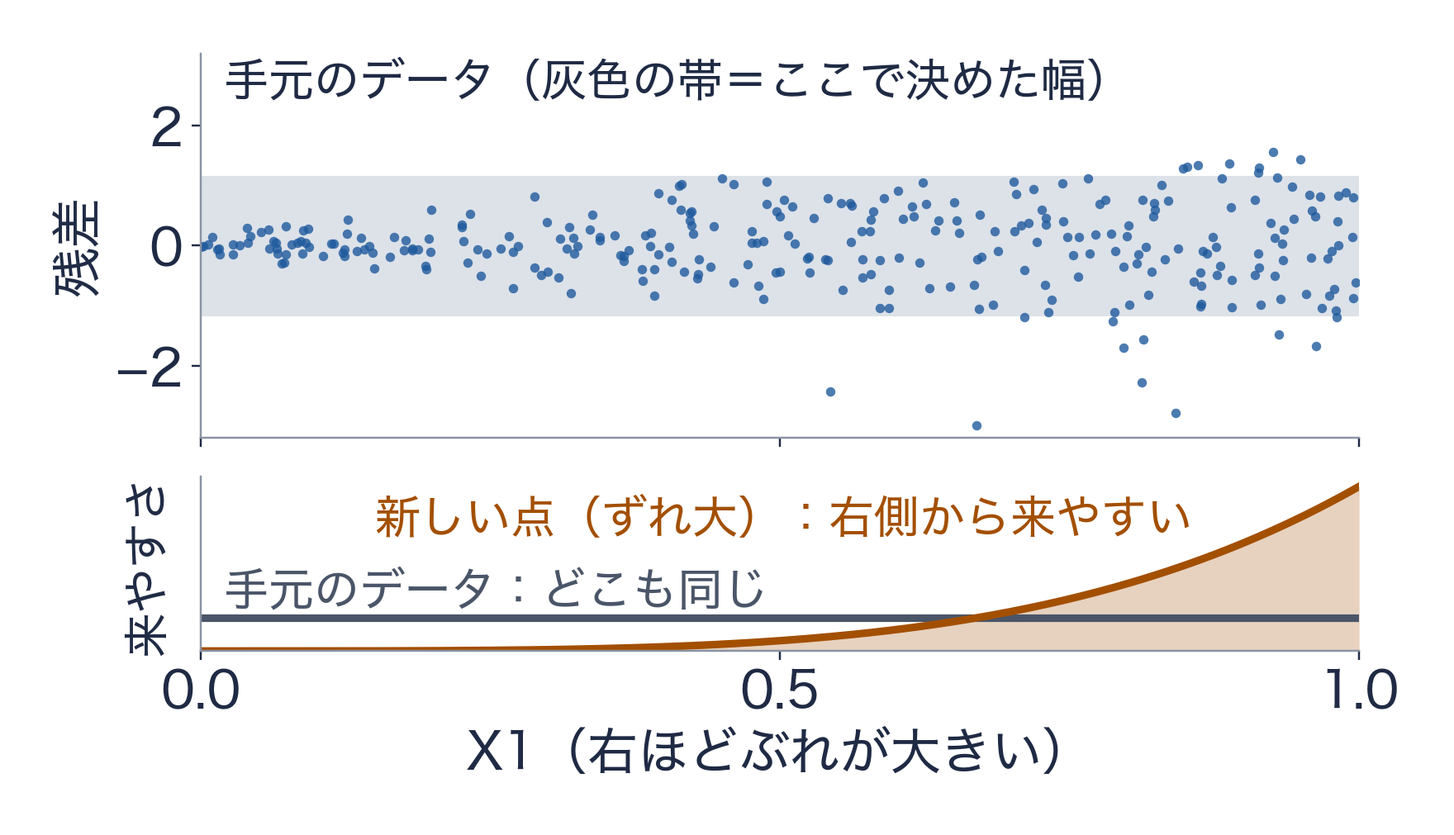
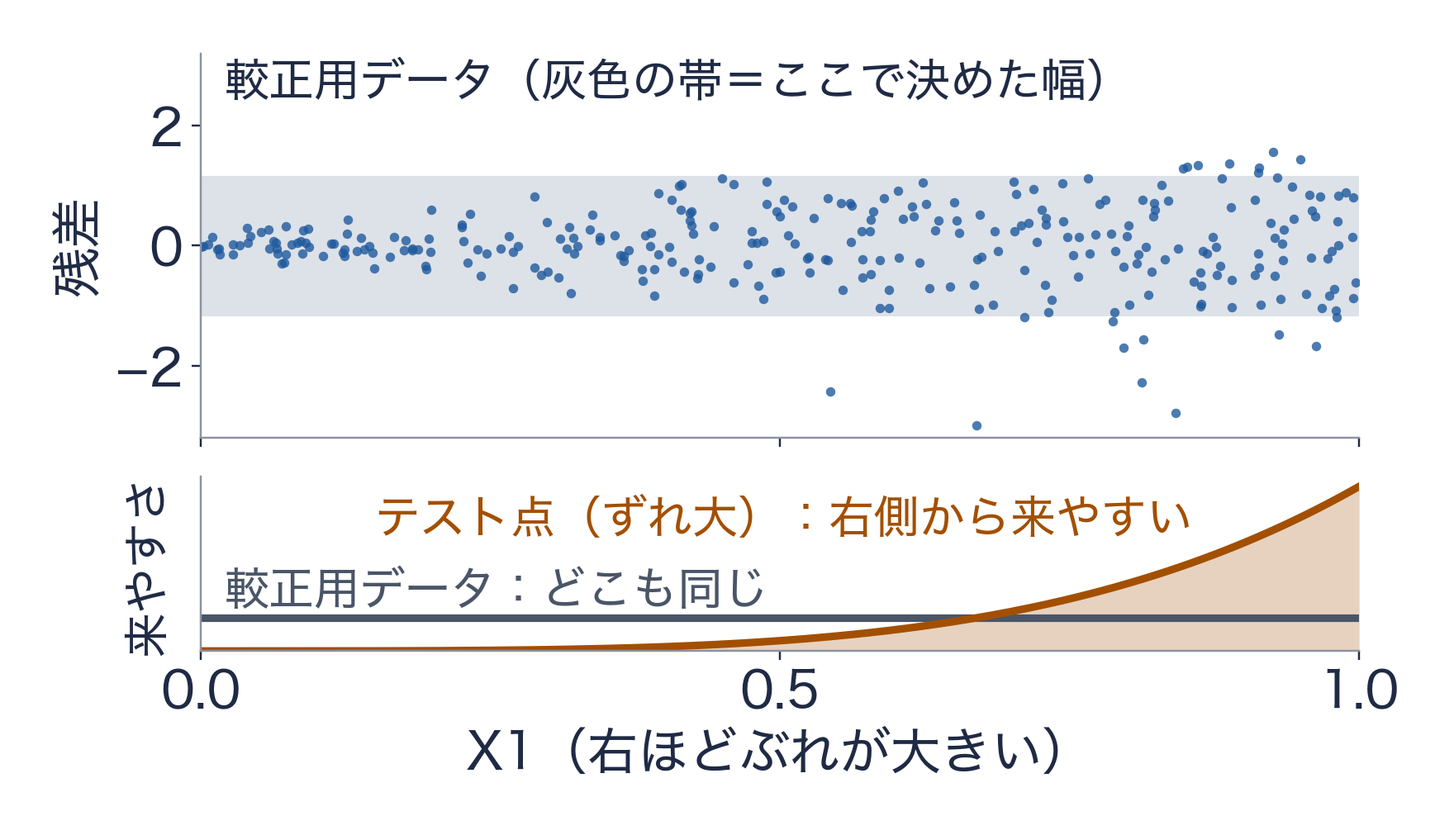
E1〜E6 の進捗スライドのデータの呼び方を、学習用データ・較正用データ・テスト点・テスト集合に統一する（Codex の提案）

diff --git a/slides/進捗_人工データ_E1-E6/project/slides/exp4-setup.html b/slides/進捗_人工データ_E1-E6/project/slides/exp4-setup.html
@@ -1,13 +1,13 @@
 <section id="exp4-setup" data-transition="fade" style="background:#F7F6F2;color:#1F2A44;font-family:'BIZ UDPGothic', Arial, sans-serif;padding:128px 128px 160px;display:flex;flex-direction:column;gap:20px">
-<h2 style="font-family:'BIZ UDPGothic', Arial, sans-serif;font-size:64px;font-weight:700;line-height:1.15;color:#1F2A44">実験 4：新しい点が来やすい場所が、手元と違う場合</h2>
+<h2 style="font-family:'BIZ UDPGothic', Arial, sans-serif;font-size:64px;font-weight:700;line-height:1.15;color:#1F2A44">実験 4：テスト点の来やすい場所が、較正用と違う</h2>
 <div style="display:flex;gap:32px;align-items:center">
-<img src="/_blob/d2bf83d58359678eaaf60b834c6fa774" alt="上の図は手元のデータの残差の散布図で、灰色の帯が手元で決めた幅。右ほどぶれが大きく、帯の外の点は右側に多い。下の図は X1 の来やすさで、手元のデータはどこも同じ高さ、新しい点（ずれ大）は右側ほど来やすい。" style="width:1080px;height:620px;object-fit:contain">
+<img src="/_blob/2da800b6d5106181dbbb3d05c10e657e" alt="上の図は較正用データの残差の散布図で、灰色の帯が較正用データで決めた幅。右ほどぶれが大きく、帯の外の点は右側に多い。下の図は X1 の来やすさで、較正用データはどこも同じ高さ、テスト点（ずれ大）は右側ほど来やすい。" style="width:1080px;height:620px;object-fit:contain">
 <div style="flex:1;display:flex;flex-direction:column;gap:24px">
-<p style="font-size:36px;line-height:1.4;color:#1F2A44">例：去年のデータで幅を決めたが、今年はぶれの大きい種類が増えた</p>
-<p style="font-size:36px;line-height:1.4;color:#1F2A44">帯の外は右側に多い → 新しい点が右から来やすいと<b>外れが増える</b></p>
+<p style="font-size:36px;line-height:1.4;color:#1F2A44">例：去年の較正用データで幅を決めたが、今年はぶれの大きい種類が増えた</p>
+<p style="font-size:36px;line-height:1.4;color:#1F2A44">帯の外は右側に多い → テスト点が右から来やすいと<b>外れが増える</b></p>
 <p style="font-size:36px;line-height:1.4;color:#A34F00">X から Y が決まるルールは同じ。それでも交換可能性が崩れる</p>
 </div>
 </div>
 <p style="position:absolute;left:128px;bottom:64px;width:1664px;font-size:28px;color:#4A5568">人工データでの検証　17 / 26　　データ②。上の点は説明用の 300 個。来やすさの偏りは 4 段階に変えた（次のページ）</p>
-<aside>実験 4 です。保証の条件である交換可能性が崩れたら、どうなるかを調べました。例えば、去年のデータで幅を決めたのに、今年はぶれの大きい種類のデータが増えた、という状況です。上の図は手元のデータで、縦軸は残差、つまり予測からのずれです。灰色の帯が、手元のデータで決めた幅です。X1 が大きい右側ほどぶれが大きく、帯の外に出る点も右側に多くなっています。下の図は、新しい点がどの X1 の所から来やすいかを表しています。手元のデータは、どこからも同じように来ます。一方、今回ずらした新しい点は、右側、つまりぶれの大きい所から来やすくなっています。すると、同じ幅を使っても、新しい点は帯の外に出やすくなります。X から Y が決まるルールは変えておらず、変えたのは新しい点の来やすい場所だけです。それでも交換可能性が崩れて、保証が成り立たなくなります。この来やすさの偏りを 4 段階に変えました。比べる方法として、重み付きの方法も試しました。新しい点が来やすい所の較正用の点ほど重く数えて幅を決める方法で、偏り方が分かっている場合に使えます。</aside>
+<aside>実験 4 です。保証の条件である交換可能性が崩れたら、どうなるかを調べました。例えば、去年の較正用データで幅を決めたのに、今年はぶれの大きい種類のデータが増えた、という状況です。上の図は較正用データで、縦軸は残差、つまり予測からのずれです。灰色の帯が、較正用データで決めた幅です。X1 が大きい右側ほどぶれが大きく、帯の外に出る点も右側に多くなっています。下の図は、テスト点がどの X1 の所から来やすいかを表しています。較正用データは、どこからも同じように来ます。一方、今回ずらしたテスト点は、右側、つまりぶれの大きい所から来やすくなっています。すると、同じ幅を使っても、テスト点は帯の外に出やすくなります。X から Y が決まるルールは変えておらず、変えたのはテスト点の来やすい場所だけです。それでも交換可能性が崩れて、保証が成り立たなくなります。この来やすさの偏りを 4 段階に変えました。比べる方法として、重み付きの方法も試しました。テスト点が来やすい所の較正用の点ほど重く数えて幅を決める方法で、偏り方が分かっている場合に使えます。</aside>
 </section>

diff --git a/slides/進捗_人工データ_E1-E6/project/slides/exp4.html b/slides/進捗_人工データ_E1-E6/project/slides/exp4.html
@@ -2,11 +2,11 @@
 <h2 style="font-family:'BIZ UDPGothic', Arial, sans-serif;font-size:64px;font-weight:700;line-height:1.15;color:#1F2A44">実験 4：今回のずらし方では、当たる割合が下がった</h2>
 <table style="font-size:36px;color:#1F2A44;line-height:1.15">
 <tr><th style="width:40%;text-align:left">ずれの大きさ</th><th style="width:15%;text-align:right">なし</th><th style="width:15%;text-align:right">小</th><th style="width:15%;text-align:right">中</th><th style="width:15%;text-align:right">大</th></tr>
-<tr><td style="color:#4A5568">新しい点のうち X1＞0.5</td><td style="text-align:right;color:#4A5568">50%</td><td style="text-align:right;color:#4A5568">75%</td><td style="text-align:right;color:#4A5568">88%</td><td style="text-align:right;color:#4A5568">97%</td></tr>
+<tr><td style="color:#4A5568">テスト点のうち X1＞0.5</td><td style="text-align:right;color:#4A5568">50%</td><td style="text-align:right;color:#4A5568">75%</td><td style="text-align:right;color:#4A5568">88%</td><td style="text-align:right;color:#4A5568">97%</td></tr>
 <tr style="background:#EEF1F5"><td style="color:#1F5A9D">当たる割合（目標 90%）</td><td></td><td></td><td></td><td></td></tr>
 <tr><td>　そのまま</td><td style="text-align:right">90.1%</td><td style="text-align:right;color:#A34F00">84.3%</td><td style="text-align:right;color:#A34F00">80.6%</td><td style="text-align:right;color:#A34F00">76.6%</td></tr>
 <tr><td>　重み付き</td><td style="text-align:right">90.1%</td><td style="text-align:right">90.1%</td><td style="text-align:right">89.9%</td><td style="text-align:right">90.1%</td></tr>
-<tr style="background:#EEF1F5"><td style="color:#1F5A9D">区間の幅（新しい点での平均）</td><td></td><td></td><td></td><td></td></tr>
+<tr style="background:#EEF1F5"><td style="color:#1F5A9D">区間の幅（テスト集合での平均）</td><td></td><td></td><td></td><td></td></tr>
 <tr><td>　そのまま</td><td style="text-align:right">2.31</td><td style="text-align:right">2.31</td><td style="text-align:right">2.31</td><td style="text-align:right">2.31</td></tr>
 <tr><td>　重み付き</td><td style="text-align:right">2.31</td><td style="text-align:right;color:#A34F00">2.77</td><td style="text-align:right;color:#A34F00">3.01</td><td style="text-align:right;color:#A34F00">3.27</td></tr>
 </table>
@@ -14,5 +14,5 @@
 <p style="font-size:40px;line-height:1.5;color:#1F2A44">正しい重みを使うと約 90% に戻る。その分、幅は広がる</p>
 </div>
 <p style="position:absolute;left:128px;bottom:64px;width:1664px;font-size:28px;color:#4A5568">人工データでの検証　18 / 26　　較正用 1,000 点、500 回の平均。95% 信頼区間（作り方は 10 枚目）は各 ±0.3% 以内</p>
-<aside>実験 4 です。保証には「データの順番を入れ替えても分布が変わらない」という条件、交換可能性がありました。これを崩すため、予測したいデータでは、誤差の大きい所が多く出るように、入力の分布をずらしました。出力の決まり方は変えていません。表の 1 行目は、新しい点のうち、X1 が 0.5 より大きい点、つまり誤差の大きい側から来る点の割合です。手元と同じなら 50% で、ずれを大きくすると 75%、88%、97% と増えます。そのままの方法では、ずれが大きくなるほど当たる割合が下がり、一番大きいずれで 77% になりました。一方、ずれ方が正確に分かっていれば、較正用の点に重みを付けて計算し直す方法があり（Tibshirani ら 2019）、これを使うと、どのずれでも約 90% に戻りました。ただし、この保証は、入力の分布だけがずれて、正しい重みが分かっている場合に限ります。その代わり、誤差の大きい所に合わせるので、幅は 2.3 から 3.3 まで広がります。そのままの方法の幅は 2.31 で一定でした。</aside>
+<aside>実験 4 です。保証には「データの順番を入れ替えても分布が変わらない」という条件、交換可能性がありました。これを崩すため、テスト点では、誤差の大きい所が多く出るように、入力の分布をずらしました。出力の決まり方は変えていません。表の 1 行目は、テスト点のうち、X1 が 0.5 より大きい点、つまり誤差の大きい側から来る点の割合です。較正用データと同じなら 50% で、ずれを大きくすると 75%、88%、97% と増えます。そのままの方法では、ずれが大きくなるほど当たる割合が下がり、一番大きいずれで 77% になりました。一方、ずれ方が正確に分かっていれば、較正用の点に重みを付けて計算し直す方法があり（Tibshirani ら 2019）、これを使うと、どのずれでも約 90% に戻りました。ただし、この保証は、入力の分布だけがずれて、正しい重みが分かっている場合に限ります。その代わり、誤差の大きい所に合わせるので、幅は 2.3 から 3.3 まで広がります。そのままの方法の幅は 2.31 で一定でした。</aside>
 </section>

diff --git a/slides/進捗_人工データ_E1-E6/project/slides/mechanism.html b/slides/進捗_人工データ_E1-E6/project/slides/mechanism.html
@@ -1,5 +1,5 @@
 <section id="mechanism" data-transition="fade" style="background:#F7F6F2;color:#1F2A44;font-family:'BIZ UDPGothic', Arial, sans-serif;padding:128px 128px 160px;display:flex;flex-direction:column;gap:40px">
-<h2 style="font-family:'BIZ UDPGothic', Arial, sans-serif;font-size:64px;font-weight:700;line-height:1.15;color:#1F2A44">しくみ：学習用・較正用に分けて、新しい点を予測</h2>
+<h2 style="font-family:'BIZ UDPGothic', Arial, sans-serif;font-size:64px;font-weight:700;line-height:1.15;color:#1F2A44">しくみ：学習用・較正用に分けて、テスト点を予測</h2>
 <div style="display:flex;gap:24px;align-items:stretch">
 <div style="flex:1;display:flex;flex-direction:column;gap:12px;background:#E6EBF2;padding:36px;border-radius:16px">
 <p style="font-size:40px;font-weight:700;color:#1F2A44">① 学習用</p>
@@ -12,7 +12,7 @@
 </div>
 <x-shape kind="arrow-right" style="width:64px;height:36px;align-self:center;background:#6B7486"></x-shape>
 <div style="flex:1;display:flex;flex-direction:column;gap:12px;background:#F6E2CC;padding:36px;border-radius:16px">
-<p style="font-size:40px;font-weight:700;color:#1F2A44">③ 新しいデータ</p>
+<p style="font-size:40px;font-weight:700;color:#1F2A44">③ テスト点</p>
 <p style="font-size:36px;line-height:1.4;color:#1F2A44">予測値 ± 半幅 を答える</p>
 </div>
 </div>
@@ -24,5 +24,5 @@
 </div>
 </div>
 <p style="position:absolute;left:128px;bottom:64px;width:1664px;font-size:28px;color:#4A5568">人工データでの検証　3 / 26　　この方法を「分割等角予測」と呼ぶ。区間の幅＝上端−下端＝半幅の 2 倍。橙の点は外れた例</p>
-<aside>しくみを説明します。手元のデータを学習用と較正用に分けて、新しいデータを予測します。1 つ目の学習用データで予測モデルを作ります。2 つ目の較正用データで、予測がどれだけ外れるかを測り、半幅を決めます。新しいデータには、予測値プラスマイナスその半幅を答えます。このあと出てくる「区間の幅」は、上端から下端までの長さで、半幅の 2 倍です。図の青い線が予測、帯が当たる範囲です。半幅は、較正用の外れ幅を小さい順に並べて決めます。正確には、順位だけは新しい 1 点を含めて数えます。たとえば較正用が 99 点なら、100 点分として数えて 90 番目の値を半幅にします。新しい点の外れ幅そのものは分からないので使いません。こうすると、新しい点が 90% 以上の確率で帯に入る、ということが証明できます。これを前回のゼミで証明しました。</aside>
+<aside>しくみを説明します。手元のデータを、モデルを作る学習用データと、区間の幅を決める較正用データに分けます。区間を使って予測する 1 点をテスト点と呼びます。1 つ目の学習用データで予測モデルを作ります。2 つ目の較正用データで、予測がどれだけ外れるかを測り、半幅を決めます。テスト点には、予測値プラスマイナスその半幅を答えます。このあと出てくる「区間の幅」は、上端から下端までの長さで、半幅の 2 倍です。図の青い線が予測、帯が当たる範囲です。半幅は、較正用の外れ幅を小さい順に並べて決めます。正確には、順位だけは新しい 1 点を含めて数えます。たとえば較正用が 99 点なら、100 点分として数えて 90 番目の値を半幅にします。テスト点の外れ幅そのものは分からないので使いません。こうすると、テスト点が 90% 以上の確率で帯に入る、ということが証明できます。これを前回のゼミで証明しました。</aside>
 </section>

diff --git a/slides/進捗_人工データ_E1-E6/project/slides/theme.html b/slides/進捗_人工データ_E1-E6/project/slides/theme.html
@@ -10,12 +10,12 @@
 <div style="flex:1;display:flex;flex-direction:column;gap:16px;background:#FFFFFF;padding:40px;border:4px solid #1F5A9D;border-radius:16px">
 <p style="font-size:32px;font-weight:700;color:#1F5A9D">範囲つきの予測（例）</p>
 <p style="font-size:80px;font-weight:700;line-height:1.1;color:#1F2A44">150〜250 台</p>
-<p style="font-size:36px;line-height:1.4;font-weight:700;color:#1F5A9D">新しいデータ全体で、範囲に入る確率 90% 以上</p>
+<p style="font-size:36px;line-height:1.4;font-weight:700;color:#1F5A9D">これから予測する点全体で、範囲に入る確率 90% 以上</p>
 </div>
 </div>
 <div style="background:#1F2A44;padding:32px 40px;border-radius:16px">
 <p style="font-size:40px;line-height:1.5;color:#F7F6F2"><b>等角予測</b>：どんな予測モデルでも、この保証が成り立つ方法。条件は<b>交換可能性</b>（データの順番を入れ替えても分布が変わらないこと）</p>
 </div>
 <p style="position:absolute;left:128px;bottom:64px;width:1664px;font-size:28px;color:#4A5568">人工データでの検証　2 / 26　　数字は説明のための例</p>
-<aside>私の研究テーマは、予測に「当たる範囲」をつける方法です。たとえば、ある時間帯の自転車の貸出台数を予測するとき、「200 台」とだけ言われても、どのくらい外れそうかが分かりません。「150 台から 250 台、90% の確率でこの中に入る」と言えれば、どのくらい信頼できるかが分かります。この 90% は、同じ条件で得られる新しいデータ全体で見たときの確率で、ある 1 つの時刻や、将来の時系列にそのまま当てはまるわけではありません。等角予測は、どんな予測モデルを使っても、こういう範囲を作れて、新しいデータが範囲に入る確率が 90% 以上になることが、数学的に保証される方法です。ただし、データの順番を入れ替えても分布が変わらない、という条件が必要で、これを交換可能性と呼びます。なお、ここの数字は説明のための例です。</aside>
+<aside>私の研究テーマは、予測に「当たる範囲」をつける方法です。たとえば、ある時間帯の自転車の貸出台数を予測するとき、「200 台」とだけ言われても、どのくらい外れそうかが分かりません。「150 台から 250 台、90% の確率でこの中に入る」と言えれば、どのくらい信頼できるかが分かります。この 90% は、同じ条件で得られる、これから予測する点全体で見たときの確率で、ある 1 つの時刻や、将来の時系列にそのまま当てはまるわけではありません。等角予測は、どんな予測モデルを使っても、こういう範囲を作れて、これから予測する点が範囲に入る確率が 90% 以上になることが、数学的に保証される方法です。ただし、データの順番を入れ替えても分布が変わらない、という条件が必要で、これを交換可能性と呼びます。なお、ここの数字は説明のための例です。</aside>
 </section>

diff --git a/slides/進捗_人工データ_E1-E6/project/slides/exp1.html b/slides/進捗_人工データ_E1-E6/project/slides/exp1.html
@@ -3,5 +3,5 @@
 <p style="font-size:36px;line-height:1.4;color:#1F2A44">1,000 回くり返した当たる割合（棒）と、理論の形（曲線）。横軸の範囲は左右で違う</p>
 <img src="/_blob/e218ace90b60d48870c79f74cc807dc5" alt="較正用 20 点と 2,000 点で、1,000 回の実験の当たる割合をヒストグラムにし、理論の曲線を重ねた図。どちらも棒が曲線によく沿う。20 点では 65〜100% と広くばらつき、2,000 点では 88〜92% に集まる。破線は 90%。" style="width:1240px;height:558px;object-fit:contain;align-self:center">
 <p style="position:absolute;left:128px;bottom:64px;width:1664px;font-size:28px;color:#4A5568">人工データでの検証　9 / 26　　目標 90%。棒＝固定した 10 万点で測った推定値、曲線＝理論の分布</p>
-<aside>実験 1 です。同じ実験を 1,000 回くり返して、1 回ごとの当たる割合を並べました。予測モデルは固定し、較正用だけを毎回引き直し、当たる割合はテスト点 10 万点で測りました。棒が実験の結果で、固定した 10 万点で測った推定値です。曲線が理論の形（ベータ分布）です。どちらも棒が曲線によく沿っています。較正用が 20 点と少ないと、1 回ごとの当たる割合は約 65% から 100% まで大きくばらつき、2,000 点あると 90% の周りに集まります。横軸の範囲は左右で違うので、目盛りを見比べてください。平均だけでなく、ばらつき方も理論の形と矛盾しない、という結果です。平均の当たる割合は、較正用 5 通り × 目標 3 通りの 15 通りすべてで、95% 信頼区間が理論の範囲と重なりました。なお、較正用 2,000 点の条件では、10 万点で測った最初の検定で小さなずれが出ましたが、400 万点で測り直すと理論と矛盾しませんでした。</aside>
+<aside>実験 1 です。同じ実験を 1,000 回くり返して、1 回ごとの当たる割合を並べました。予測モデルは固定し、較正用だけを毎回引き直し、当たる割合はテスト集合 10 万点で測りました。棒が実験の結果で、固定した 10 万点で測った推定値です。曲線が理論の形（ベータ分布）です。どちらも棒が曲線によく沿っています。較正用が 20 点と少ないと、1 回ごとの当たる割合は約 65% から 100% まで大きくばらつき、2,000 点あると 90% の周りに集まります。横軸の範囲は左右で違うので、目盛りを見比べてください。平均だけでなく、ばらつき方も理論の形と矛盾しない、という結果です。平均の当たる割合は、較正用 5 通り × 目標 3 通りの 15 通りすべてで、95% 信頼区間が理論の範囲と重なりました。なお、較正用 2,000 点の条件では、10 万点で測った最初の検定で小さなずれが出ましたが、400 万点で測り直すと理論と矛盾しませんでした。</aside>
 </section>

diff --git a/slides/進捗_人工データ_E1-E6/project/slides/exp1-detail.html b/slides/進捗_人工データ_E1-E6/project/slides/exp1-detail.html
@@ -7,11 +7,11 @@
 <tr><td>較正用</td><td>20・50・100・500・2,000 点の 5 通り。毎回新しく作る</td></tr>
 <tr><td>目標</td><td>80%・90%・95%（α＝0.20・0.10・0.05）→ 合わせて 15 通り</td></tr>
 <tr><td>くり返し</td><td>15 通りそれぞれ 1,000 回</td></tr>
-<tr><td>測り方</td><td>テスト点 10 万点（全試行で共通）のうち、区間に入った割合</td></tr>
+<tr><td>測り方</td><td>テスト集合 10 万点（全試行で共通）のうち、区間に入った割合</td></tr>
 </table>
 <div style="background:#FFFFFF;border-left:10px solid #1F5A9D;padding:24px 40px">
 <p style="font-size:36px;line-height:1.4;color:#1F2A44">モデルを固定し、較正用だけを引き直す → <b>較正用の引き方によるばらつきだけ</b>が見える</p>
 </div>
 <p style="position:absolute;left:128px;bottom:64px;width:1664px;font-size:28px;color:#4A5568">人工データでの検証　8 / 26　　論文 第 5 章、仕様書 specs/E1_coverage.md</p>
-<aside>実験 1 の設定を詳しく説明します。データは、外れ方が一定のデータ①で、誤差の標準偏差は 0.5 です。予測モデルはリッジ回帰で、学習用 500 点で 1 回だけ学習し、全部の試行で同じモデルを使います。較正用データは 20 点、50 点、100 点、500 点、2,000 点の 5 通りで、試行のたびに新しく作ります。目標は 80%、90%、95% の 3 通りで、外れてよい割合 α でいうと 0.20、0.10、0.05 です。合わせて 15 通りの組み合わせを、それぞれ 1,000 回くり返しました。当たる割合は、全部の試行で共通のテスト点 10 万点のうち、区間に入った点の割合で測りました。モデルを固定して較正用だけを引き直すので、較正用の引き方によるばらつきだけを取り出して、理論と比べられます。</aside>
+<aside>実験 1 の設定を詳しく説明します。データは、外れ方が一定のデータ①で、誤差の標準偏差は 0.5 です。予測モデルはリッジ回帰で、学習用 500 点で 1 回だけ学習し、全部の試行で同じモデルを使います。較正用データは 20 点、50 点、100 点、500 点、2,000 点の 5 通りで、試行のたびに新しく作ります。目標は 80%、90%、95% の 3 通りで、外れてよい割合 α でいうと 0.20、0.10、0.05 です。合わせて 15 通りの組み合わせを、それぞれ 1,000 回くり返しました。当たる割合を測るために集めた多数のテスト点を、テスト集合と呼びます。当たる割合は、全部の試行で共通のテスト集合 10 万点のうち、区間に入った点の割合で測りました。モデルを固定して較正用だけを引き直すので、較正用の引き方によるばらつきだけを取り出して、理論と比べられます。</aside>
 </section>

diff --git a/slides/進捗_人工データ_E1-E6/project/slides/exp3-why.html b/slides/進捗_人工データ_E1-E6/project/slides/exp3-why.html
@@ -1,7 +1,7 @@
 <section id="exp3-why" data-transition="fade" style="background:#F7F6F2;color:#1F2A44;font-family:'BIZ UDPGothic', Arial, sans-serif;padding:128px 128px 160px;display:flex;flex-direction:column;gap:40px">
 <h2 style="font-family:'BIZ UDPGothic', Arial, sans-serif;font-size:64px;font-weight:700;line-height:1.15;color:#1F2A44">実験 3：なぜ組ごとに見るのか</h2>
 <div style="background:#FFFFFF;border-left:10px solid #1F5A9D;padding:32px 40px">
-<p style="font-size:40px;line-height:1.5;color:#1F2A44">定理が保証するのは、新しいデータ<b>全体</b>で 90%</p>
+<p style="font-size:40px;line-height:1.5;color:#1F2A44">定理が保証するのは、テスト点<b>全体</b>で 90%</p>
 </div>
 <div style="display:flex;gap:32px;align-items:center">
 <div style="flex:1;background:#FFFFFF;padding:36px;border:2px solid #C9D1DC;border-radius:16px;display:flex;flex-direction:column;gap:12px">
@@ -21,5 +21,5 @@
 </div>
 <p style="font-size:40px;line-height:1.5;color:#1F2A44">全体が 90% でも、組ごとには偏りうる → データ②で調べた</p>
 <p style="position:absolute;left:128px;bottom:64px;width:1664px;font-size:28px;color:#4A5568">人工データでの検証　14 / 26　　数字は説明のための例</p>
-<aside>実験 3 では、組ごとの当たり方を見ました。なぜかというと、定理が保証するのは、新しいデータ全体で 90% ということだけだからです。たとえば、外れにくい人と外れやすい人が半分ずついて、外れにくい人には 100%、外れやすい人には 80% しか当たらなくても、全体では 90% になります。全体の保証を満たしていても、組ごとには偏りうるわけです。そこで、外れ方が場所で変わるデータ②を使って、実際にどのくらい偏るかを調べました。なお、ここの数字は説明のための例です。</aside>
+<aside>実験 3 では、組ごとの当たり方を見ました。なぜかというと、定理が保証するのは、テスト点全体で 90% ということだけだからです。たとえば、外れにくい人と外れやすい人が半分ずついて、外れにくい人には 100%、外れやすい人には 80% しか当たらなくても、全体では 90% になります。全体の保証を満たしていても、組ごとには偏りうるわけです。そこで、外れ方が場所で変わるデータ②を使って、実際にどのくらい偏るかを調べました。なお、ここの数字は説明のための例です。</aside>
 </section>

diff --git a/slides/進捗_人工データ_E1-E6/project/slides/appendix1b.html b/slides/進捗_人工データ_E1-E6/project/slides/appendix1b.html
@@ -5,11 +5,11 @@
 <tr style="background:#E6EBF2"><th style="width:46%;text-align:left">ケース</th><th style="width:20%;text-align:right">平均</th><th style="width:34%;text-align:left">気づける検査</th></tr>
 <tr><td>正しい実装</td><td style="text-align:right">0.9003</td><td>すべて通る</td></tr>
 <tr><td>n＋1 を n にする誤り</td><td style="text-align:right">0.8993</td><td>平均の検査</td></tr>
-<tr><td>テスト点が少ない</td><td style="text-align:right">0.9004</td><td>ばらつきの検査</td></tr>
+<tr><td>テスト集合が小さい</td><td style="text-align:right">0.9004</td><td>ばらつきの検査</td></tr>
 </table>
 <div style="background:#FFFFFF;border-left:10px solid #1F5A9D;padding:28px 40px">
 <p style="font-size:40px;line-height:1.5;color:#1F2A44">だから実験 1 では、ばらつき方まで理論と比べた</p>
 </div>
 <p style="position:absolute;left:128px;bottom:64px;width:1664px;font-size:28px;color:#4A5568">人工データでの検証　26 / 26（補足）　　2,000 回の平均</p>
-<aside>【時間があれば・質問されたら】補足です。検証のやり方によって、見つけられる間違いが違います。よくある実装の誤りに、n プラス 1 とすべき所を n にしてしまう、というものがあります。この誤りがあっても、当たる割合の平均は 0.001 しか変わりません。平均が下限の 0.90 を下回ることで気づけますが、ぎりぎりです。また、テスト点が 2,000 点と少ないと、平均は正しく見えるのに、ばらつきが理論の 1.2 倍になり、ばらつき方まで調べないと気づけません。だから実験 1 では、ばらつき方まで理論と比べました。</aside>
+<aside>【時間があれば・質問されたら】補足です。検証のやり方によって、見つけられる間違いが違います。よくある実装の誤りに、n プラス 1 とすべき所を n にしてしまう、というものがあります。この誤りがあっても、当たる割合の平均は 0.001 しか変わりません。平均が下限の 0.90 を下回ることで気づけますが、ぎりぎりです。また、テスト集合が 2,000 点と小さいと、平均は正しく見えるのに、ばらつきが理論の 1.2 倍になり、ばらつき方まで調べないと気づけません。だから実験 1 では、ばらつき方まで理論と比べました。</aside>
 </section>

diff --git a/slides/進捗_人工データ_E1-E6/project/slides/exp5.html b/slides/進捗_人工データ_E1-E6/project/slides/exp5.html
@@ -11,5 +11,5 @@
 <p style="font-size:40px;line-height:1.5;color:#1F2A44">較正用を増やすとぶれが半分に。幅と誤差はわずかに増えただけ（このデータ）</p>
 </div>
 <p style="position:absolute;left:128px;bottom:64px;width:1664px;font-size:28px;color:#4A5568">人工データでの検証　20 / 26　　500 回。ぶれ＝1 回ごとの当たる割合の標準偏差（平均の区間ではない）</p>
-<aside>実験 5 です。手元のデータが 1,000 点あるとき、学習用と較正用をどう分けるのがよいかを調べました。較正用を 100 点から 500 点に増やすと、当たる割合の 1 回ごとのぶれ（標準偏差）が 0.028 から 0.013 へ、半分になりました。較正用が多いほど、幅を決める材料が増えるからです。一方、学習用が 900 点から 500 点に減っても、予測の誤差（テストでの平均二乗誤差）は 5% ほど、区間の幅は 1.754 から 1.779 へ 1.5% ほどしか増えませんでした。ただし、これは単純なデータでの結果で、もっと難しいデータでは学習用を減らす影響が大きくなるかもしれません。当たる割合の平均は、どの分け方でも 0.900〜0.902 で、95% 信頼区間はどれも 90% を含みました。</aside>
+<aside>実験 5 です。手元のデータが 1,000 点あるとき、学習用と較正用をどう分けるのがよいかを調べました。較正用を 100 点から 500 点に増やすと、当たる割合の 1 回ごとのぶれ（標準偏差）が 0.028 から 0.013 へ、半分になりました。較正用が多いほど、幅を決める材料が増えるからです。一方、学習用が 900 点から 500 点に減っても、予測の誤差（テスト集合での平均二乗誤差）は 5% ほど、区間の幅は 1.754 から 1.779 へ 1.5% ほどしか増えませんでした。ただし、これは単純なデータでの結果で、もっと難しいデータでは学習用を減らす影響が大きくなるかもしれません。当たる割合の平均は、どの分け方でも 0.900〜0.902 で、95% 信頼区間はどれも 90% を含みました。</aside>
 </section>

diff --git a/slides/進捗_人工データ_E1-E6/project/slides/exp2.html b/slides/進捗_人工データ_E1-E6/project/slides/exp2.html
@@ -10,5 +10,5 @@
 </table>
 <p style="font-size:40px;line-height:1.5;color:#1F2A44;font-weight:700">どのモデルでも約 90%。予測の誤差が小さいほど幅が狭い（今回のデータ）</p>
 <p style="position:absolute;left:128px;bottom:64px;width:1664px;font-size:28px;color:#4A5568">人工データでの検証　12 / 26　　1,000 回の平均。95% 信頼区間（作り方は 10 枚目）は各 ±0.002 以内。幅＝上端−下端</p>
-<aside>結果です。当たる割合は、5 つのモデルすべてで 0.900 か 0.901 でした。いつも平均を答えるだけのモデルでも 90% 当たっています。保証が予測モデルの良し悪しによらない、ということです。違いが出るのは区間の幅です。単純なモデルは幅が 2.96 と、今回の 5 つの中で最も広く、勾配ブースティングでは 1.77 まで狭くなりました。今回のデータでは、予測の誤差が小さいモデルほど、同じ 90% でも狭い、役に立つ範囲になりました。ただし、機械学習の 3 つの順位は、学習データを変えると入れ替わることもありました。</aside>
+<aside>結果です。当たる割合は、5 つのモデルすべてで 0.900 か 0.901 でした。いつも平均を答えるだけのモデルでも 90% 当たっています。保証が予測モデルの良し悪しによらない、ということです。違いが出るのは区間の幅です。単純なモデルは幅が 2.96 と、今回の 5 つの中で最も広く、勾配ブースティングでは 1.77 まで狭くなりました。今回のデータでは、予測の誤差が小さいモデルほど、同じ 90% でも狭い、役に立つ範囲になりました。ただし、機械学習の 3 つの順位は、学習用データを変えると入れ替わることもありました。</aside>
 </section>
